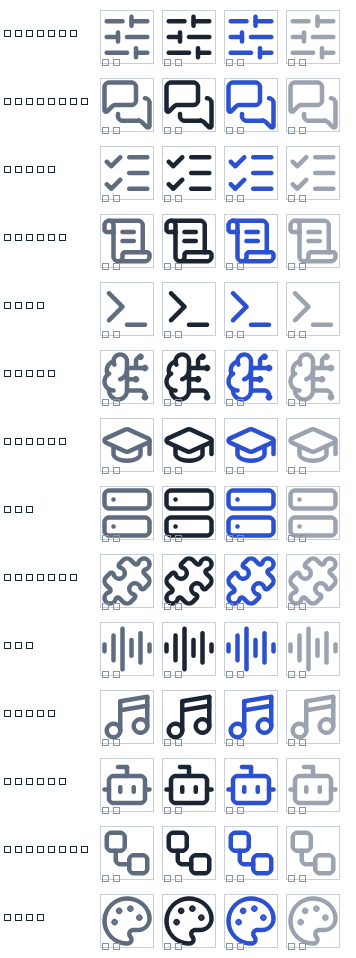
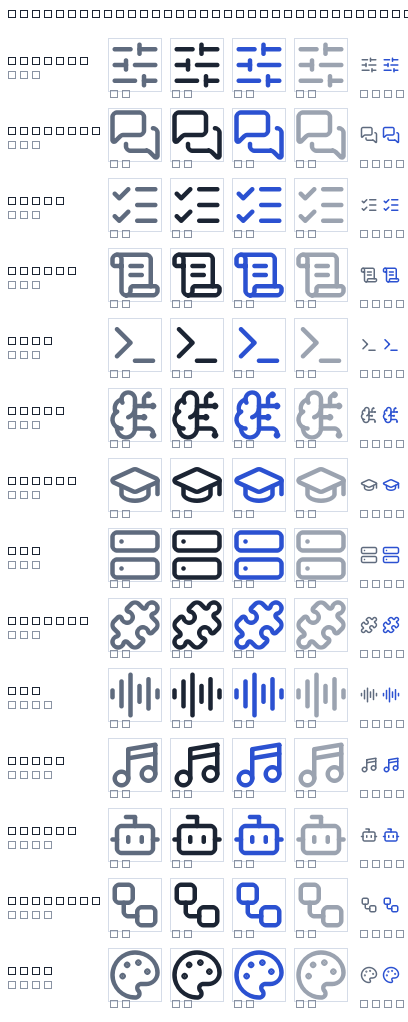
test(ui): 导航图标验收探针升级为「3×放大 + 实尺寸」对照图
- 探针原来只输出 4 态等尺寸小图，且判定被底色素污染（深色底距强调色比距淡灰更近，
  导致所有行都被判成"选中色"）→ 改为只统计非底色墨迹像素，实测 14 行全部判定正确。
- 验收图改为：左侧语义键 + 四态 3× 放大（看细节）+ 右侧 18px 实尺寸（看可读性）。
- 修掉放大位图超出行高导致的重叠（位图边长 = 18 × zoom，不是 (cell-8) × zoom）。

diff --git a/scripts/_probe_nav_icons.py b/scripts/_probe_nav_icons.py
@@ -17,8 +17,8 @@ os.environ.setdefault("QT_QPA_PLATFORM", "offscreen")
 ROOT = Path(__file__).resolve().parents[1]
 sys.path.insert(0, str(ROOT / "src"))
 
-from PyQt6.QtCore import QSize, Qt                                    # noqa: E402
-from PyQt6.QtGui import QColor, QImage, QPainter, QPixmap             # noqa: E402
+from PyQt6.QtCore import QRectF, QSize, Qt                              # noqa: E402
+from PyQt6.QtGui import QColor, QImage, QPainter, QPixmap               # noqa: E402
 from PyQt6.QtSvg import QSvgRenderer                                  # noqa: E402
 from PyQt6.QtWidgets import QApplication                              # noqa: E402
 
@@ -71,37 +71,58 @@ def probe_live_nav() -> None:
 
 
 def render_sheet(out: Path) -> None:
-    cell, pad, label_w = 62, 6, 96
+    """输出验收图：每行一个导航项，左侧语义键，中间四态 3 倍放大（看细节），
+    右侧原始 18px（看真实尺寸下的可读性）。
+
+    说明：offscreen 平台没有任何字体（QFontDatabase.families() 为空），中文标签必然
+    渲染成方块，故此处用 ASCII 语义键代替文案。
+    """
+    zoom, pad, key_w = 3, 8, 104
+    cell = ap._NAV_ICON_SIZE * zoom + 8          # 放大后的图标 + 内边距
+    native_w = 40
+    states = (("常态", "#5F6B7E"), ("悬停", "#1B2433"),
+              ("选中", "#2B51D1"), ("深色", "#9BA3B0"))
     rows = len(ap._NAV_ITEMS)
-    w = label_w + cell * 4 + pad * 2
-    h = rows * (cell + pad) + pad
+    w = key_w + cell * len(states) + native_w + pad * 2
+    h = 34 + rows * (cell + pad) + pad
     sheet = QImage(w, h, QImage.Format.Format_RGB32)
     sheet.fill(QColor("#FFFFFF"))
     p = QPainter(sheet)
     f = p.font()
-    f.setPointSize(8)
+    f.setPointSize(9)
     p.setFont(f)
+    p.setPen(QColor("#1B2433"))
+    p.drawText(pad, 22, "设置页导航图标 · Lucide 开源线条矢量图（ISC）· 3× 放大 + 实际尺寸")
     for i, (name, key) in enumerate(ap._NAV_ITEMS):
-        y = pad + i * (cell + pad)
+        y = 34 + i * (cell + pad)
         p.setPen(QColor("#1B2433"))
-        p.drawText(4, y + cell // 2 + 4, f"{key}")
+        p.drawText(pad, y + cell // 2 + 4, key)
+        p.setPen(QColor("#8A93A3"))
+        p.drawText(pad, y + cell // 2 + 18, f"# {i + 1}")
         svg = ap._LUCIDE_NAV_ICONS[key]
-        for j, (mode, color) in enumerate((("常态", "#5F6B7E"),
-                                           ("悬停", "#1B2433"),
-                                           ("选中", "#2B51D1"),
-                                           ("深色", "#9BA3B0"))):
-            x = label_w + j * cell
-            pm = QPixmap(cell - 8, cell - 8)
+        for j, (label, color) in enumerate(states):
+            x = key_w + j * cell
+            side = ap._NAV_ICON_SIZE * zoom
+            pm = QPixmap(side, side)
             pm.fill(Qt.GlobalColor.transparent)
             pp = QPainter(pm)
             pp.setRenderHint(QPainter.RenderHint.Antialiasing)
-            QSvgRenderer(svg.replace("{color}", color).encode("utf-8")).render(pp)
+            QSvgRenderer(svg.replace("{color}", color).encode("utf-8")).render(
+                pp, QRectF(0, 0, side, side))
             pp.end()
             p.drawPixmap(x + 4, y + 4, pm)
-            p.setPen(QColor("#C8CFDA"))
-            p.drawRect(x + 4, y + 4, cell - 9, cell - 9)
+            p.setPen(QColor("#D5DCE8"))
+            p.drawRect(x + 4, y + 4, side - 1, side - 1)
             p.setPen(QColor("#8A93A3"))
-            p.drawText(x + 6, y + cell + 2, mode)
+            p.drawText(x + 6, y + cell + 6, label)
+        # 实际尺寸（18px）直出：看真实尺寸下笔画是否还分得开
+        nx = key_w + cell * len(states) + 8
+        p.drawPixmap(nx, y + (cell - ap._NAV_ICON_SIZE) // 2,
+                     ap._svg_pixmap(svg, ap._NAV_ICON_SIZE, states[0][1]))
+        p.drawPixmap(nx + ap._NAV_ICON_SIZE + 4, y + (cell - ap._NAV_ICON_SIZE) // 2,
+                     ap._svg_pixmap(svg, ap._NAV_ICON_SIZE, states[2][1]))
+        p.setPen(QColor("#8A93A3"))
+        p.drawText(nx, y + cell + 6, "18px")
     p.end()
     sheet.save(str(out), "PNG")
     print(f"预览图：{out}  ({w}×{h})")
